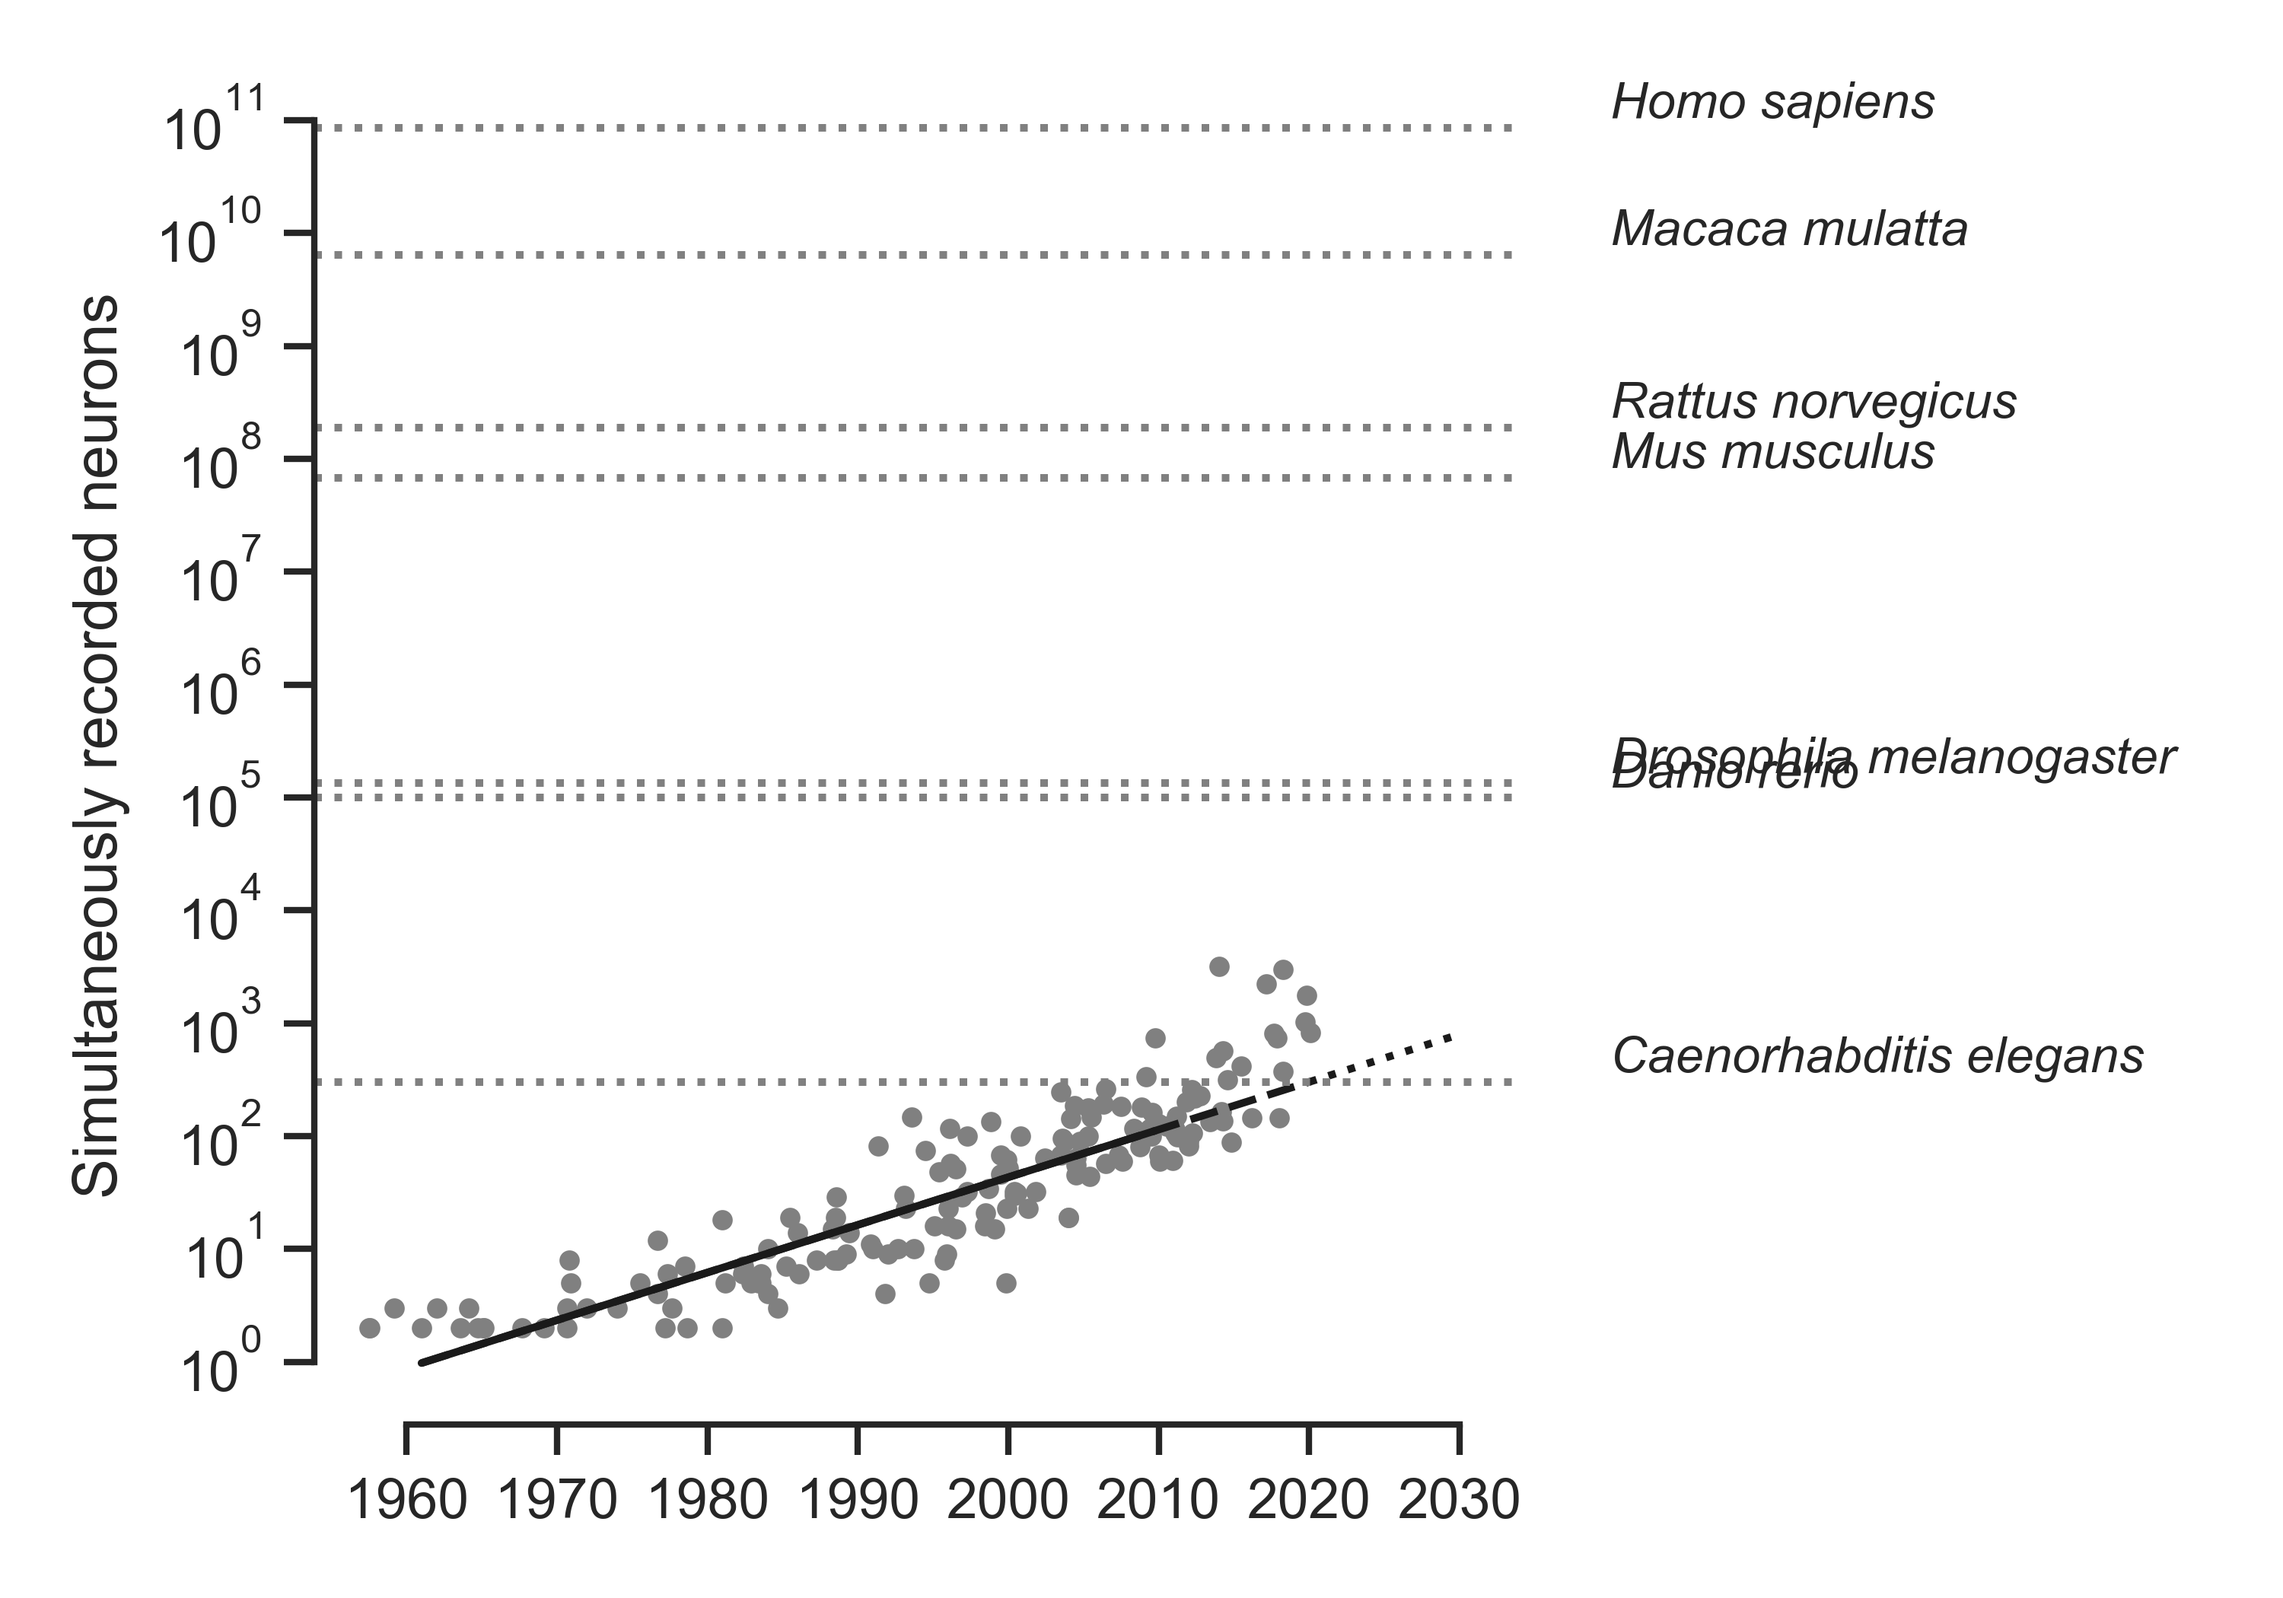
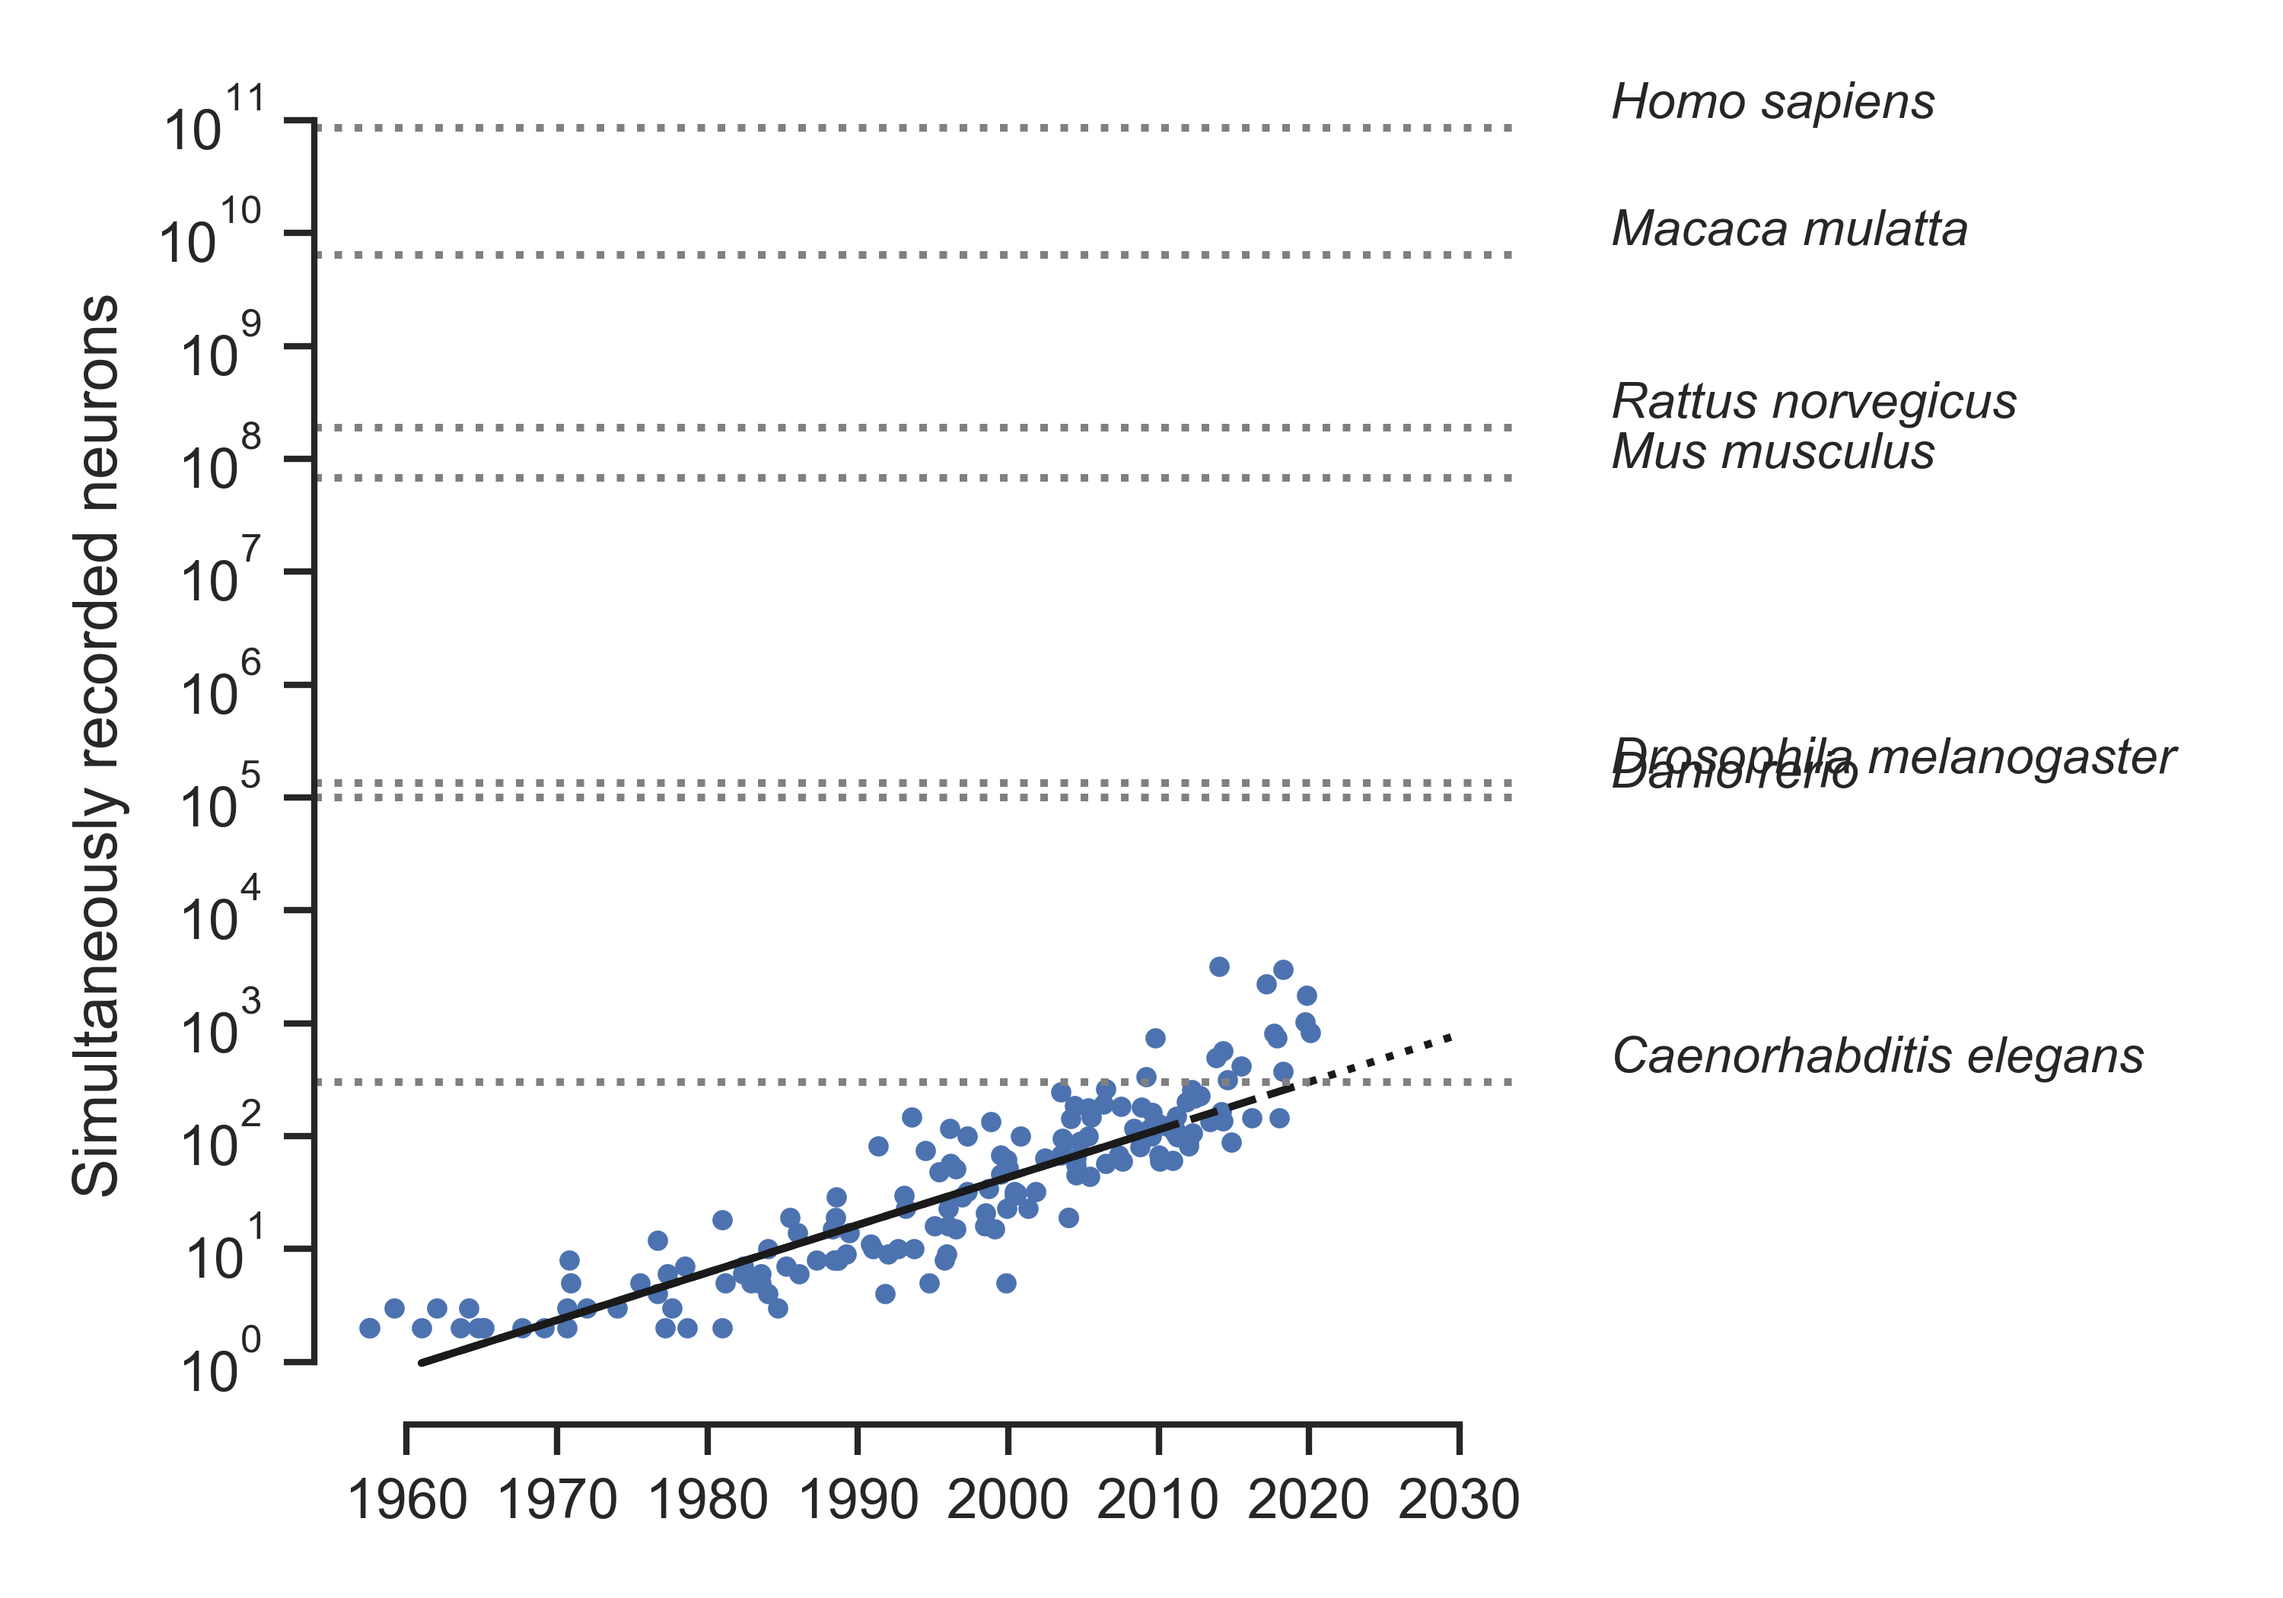
png

Changed region(s): [[0.155, 0.5881, 0.589, 0.8357]]

diff --git a/largescale_recordings.py b/largescale_recordings.py
@@ -71,7 +71,8 @@ nneurons = [{'species':'Caenorhabditis elegans', 'name':'Worm',
 # ====================================== #
 
 fig, ax = plt.subplots(1, 1, figsize=[5, 3.5])
-ax.scatter(df.date_num, df.neurons_log, marker='.', color='grey', zorder=-100)
+ax.scatter(df.date_num, df.neurons_log, marker='.',
+        zorder=-100)
 
 # plot Stevenson curve on top
 plt.plot(X['date_num'], res.predict(), color='k')
